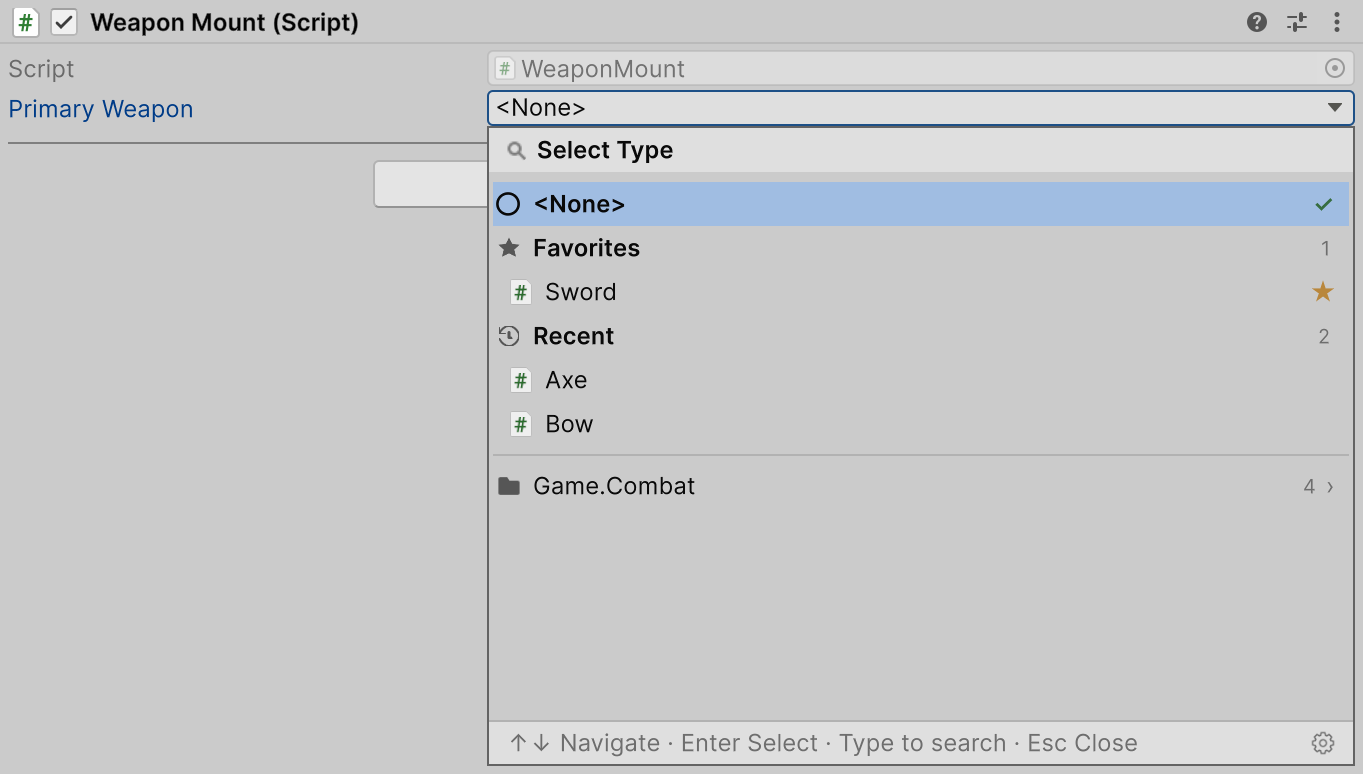
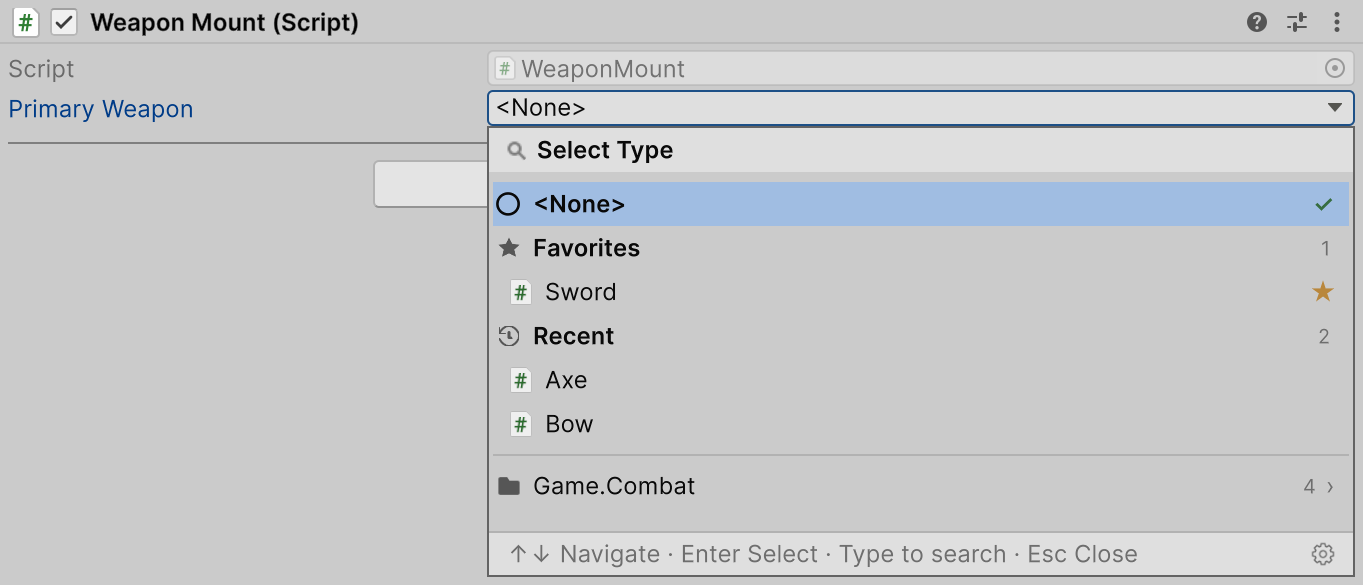
docs: review the TypeSelector page and show sample GIFs on shared pages (#301)
* docs(type-selector): apply the rules review and trim picker captures

- Show the attribute examples as a results table, drop the analyzer list and API contract details
- Cut the empty picker rows from six captures and their light twins, lossless
- docs-site: no analyzer lists; every Package sample shows the sample's demo GIF

* docs: show the sample demo GIF on pages that share a sample

* docs: drop analyzer IDs from the documentation pages

* docs: show the Package sample GIF without a caption

---------

diff --git a/Documentation/ru/03-type-selector.md b/Documentation/ru/03-type-selector.md
@@ -1,6 +1,6 @@
 # TypeSelector
 
-Атрибут для поля с типом: инспектор показывает список с поиском, где остаются только подходящие классы.
+Окно выбора типа, которое вы настраиваете под каждое поле.
 
 ## Быстрый старт
 
@@ -42,23 +42,12 @@ public sealed class Bow : RangedWeapon, ITwoHanded { }
 
 Типы в атрибуте сужают список: остаются только классы, совместимые со всеми сразу.
 
-```csharp
-// Weapon, MeleeWeapon, RangedWeapon, Sword, Axe, Bow
-[TypeSelector(typeof(Weapon))]
-[SerializeField] private string _anyWeapon;
-
-// Axe, Bow
-[TypeSelector(typeof(Weapon), typeof(ITwoHanded))]
-[SerializeField] private string _twoHanded;
-
-// Пустой список, анализатор AFT0009
-[TypeSelector(typeof(Sword), typeof(Axe))]
-[SerializeField] private string _nothing;
-
-// Sword, Axe: через общий базовый класс
-[TypeSelector(typeof(MeleeWeapon), Allow = TypeAllow.None)]
-[SerializeField] private string _swordOrAxe;
-```
+| Аргументы <code lang="csharp">[TypeSelector]</code> на поле <code lang="csharp">string</code> | В списке |
+|---|---|
+| <code lang="csharp">typeof(Weapon)</code> | <code lang="class-name">Weapon</code>, <code lang="class-name">MeleeWeapon</code>, <code lang="class-name">RangedWeapon</code>, <code lang="class-name">Sword</code>, <code lang="class-name">Axe</code>, <code lang="class-name">Bow</code> |
+| <code lang="csharp">typeof(Weapon), typeof(ITwoHanded)</code> | <code lang="class-name">Axe</code>, <code lang="class-name">Bow</code> |
+| <code lang="csharp">typeof(Sword), typeof(Axe)</code> | Пусто |
+| <code lang="csharp">typeof(MeleeWeapon), Allow = TypeAllow.None</code> | <code lang="class-name">Sword</code>, <code lang="class-name">Axe</code> |
 
 <code lang="class-name">T</code> обёртки и тип поля <code lang="csharp">[SerializeReference]</code> работают как ещё один тип в атрибуте:
 
@@ -72,10 +61,8 @@ public sealed class Bow : RangedWeapon, ITwoHanded { }
 [SerializeReference] private Weapon _twoHandedWeapon;
 ```
 
-На массиве или списке ограничение применяется к каждому элементу.
-
 > [!NOTE]
-> В инспекторе runtime-объекта селектор не предлагает типы из editor-only сборок (`UnityEditor`, asmdef только для Editor и папки `Editor`): в билде плеера они не найдутся. Правило определяется классом объекта, поэтому поле runtime-объекта под <code lang="csharp">#if UNITY_EDITOR</code> их тоже не предлагает.
+> В инспекторе runtime-объекта селектор не предлагает типы из editor-only сборок (`UnityEditor`, asmdef только для Editor и папки `Editor`): в билде плеера они не найдутся.
 
 ## Свойства
 
@@ -112,26 +99,19 @@ public sealed class Bow : RangedWeapon, ITwoHanded { }
 
 ![Выбор MeleeWeapon в Weapon Class оставляет в Weapon Name только Axe и Sword](../Images/type-selector-member-constraint.gif)
 
-| Источник ограничения | Что ограничивает |
+| Источник ограничения | Базовый тип |
 |---|---|
-| <code lang="class-name">System.Type</code> | Один тип |
-| <code lang="csharp">string</code> | Имя типа, разрешаемое через <code lang="csharp">Type.GetType()</code> |
-| <code lang="class-name">SerializableType</code> / <code lang="class-name">SerializableMonoScript</code> | Разрешённое значение <code lang="csharp">.Type</code> |
-| Массив этих значений | Несколько ограничений одновременно; <code lang="class-name">List&lt;T&gt;</code> не поддерживается |
+| <code lang="class-name">System.Type</code> | Значение поля |
+| <code lang="csharp">string</code> | Тип по имени через <code lang="csharp">Type.GetType()</code> |
+| <code lang="class-name">SerializableType</code> / <code lang="class-name">SerializableMonoScript</code> | Значение <code lang="csharp">.Type</code> |
+| Массив этих значений | Каждый элемент; <code lang="class-name">List&lt;T&gt;</code> не поддерживается |
 
-- Строка в атрибуте сначала ищется среди нестатических полей и читаемых свойств класса, где объявлено поле, включая унаследованные, затем — как имя типа.
 - У поля внутри <code lang="csharp">[Serializable]</code>-класса или элемента списка источник читается из того же экземпляра.
 - Пока источник пуст или не разрешился, ограничения от него нет: строковый **Weapon Name** предложит все конкретные типы. У обёртки остаётся её собственный <code lang="class-name">T</code>.
 
 ## Ошибки в строковых аргументах
 
-Ошибки в строках находят анализаторы:
-
-- `AFT0006` — строка из одного слова, но такого члена у класса нет;
-- `AFT0007` — член не может задать базовые типы;
-- `AFT0008` — строка не похожа на имя типа.
-
-Если имя типа записано верно, но такой тип не загружен, предупреждение показывает инспектор:
+Если имя типа записано верно, но такой тип не загружен, инспектор показывает предупреждение:
 
 ```csharp
 [TypeSelector("Spear, Assembly-CSharp")]
@@ -211,13 +191,15 @@ button.clicked += () => TypeSelectorWindow.Show(
     onSelected: aqn => selectedTypeName = aqn);
 ```
 
-Обработчик получает assembly-qualified name или <code lang="csharp">null</code> при выборе `<None>`; закрытие окна без выбора его не вызывает.
+Обработчик получает assembly-qualified name или <code lang="csharp">null</code> при выборе `<None>`.
 
-- <code lang="csharp">currentAqn</code> отмечает свой тип при открытии, а <code lang="csharp">""</code> — `<None>`; <code lang="csharp">null</code> или имя, которого нет в списке, не отмечают ничего, поэтому Enter сразу после открытия не сотрёт сохранённое имя.
-- <code lang="csharp">TypeSelectorFilter.Allow</code> по умолчанию <code lang="csharp">TypeAllow.None</code>, в отличие от <code lang="csharp">[TypeSelector]</code>: окно выше предлагает только конкретное оружие.
+> [!NOTE]
+> У <code lang="class-name">TypeSelectorFilter</code> <code lang="csharp">Allow</code> по умолчанию <code lang="csharp">TypeAllow.None</code>, а у <code lang="csharp">[TypeSelector]</code> — <code lang="csharp">TypeAllow.All</code>: окно выше предлагает только конкретное оружие.
 
 Свойства фильтра и параметры окна — в справочнике API: [TypeSelectorFilter](https://vpdpersonal.github.io/Aspid.FastTools/ru/api/Aspid.FastTools.Types.Editors.TypeSelectorFilter), [TypeSelectorWindow](https://vpdpersonal.github.io/Aspid.FastTools/ru/api/Aspid.FastTools.Types.Editors.TypeSelectorWindow).
 
 ## Пример в пакете
 
 Зависимый список, имена из <code lang="csharp">[TypeSelectorDisplay]</code> и обязательное поле показаны в примере [Types](../../Samples~/Types/Documentation/README.ru.md), а окно выбора из редакторского кода — в [EditorTools](../../Samples~/EditorTools/Documentation/README.ru.md).
+
+![Волна обычных и элитных врагов в сцене Types](../../Samples~/Types/Documentation/Images/demo.gif)

diff --git a/Documentation/03-type-selector.md b/Documentation/03-type-selector.md
@@ -1,6 +1,6 @@
 # TypeSelector
 
-An attribute for a type field: the Inspector shows a searchable list with only the classes that fit.
+A type picker you tailor to every field.
 
 ## Quick start
 
@@ -42,23 +42,12 @@ public sealed class Bow : RangedWeapon, ITwoHanded { }
 
 The types in the attribute narrow the list: only classes compatible with all of them stay.
 
-```csharp
-// Weapon, MeleeWeapon, RangedWeapon, Sword, Axe, Bow
-[TypeSelector(typeof(Weapon))]
-[SerializeField] private string _anyWeapon;
-
-// Axe, Bow
-[TypeSelector(typeof(Weapon), typeof(ITwoHanded))]
-[SerializeField] private string _twoHanded;
-
-// Empty list, analyzer AFT0009
-[TypeSelector(typeof(Sword), typeof(Axe))]
-[SerializeField] private string _nothing;
-
-// Sword, Axe: through their common base class
-[TypeSelector(typeof(MeleeWeapon), Allow = TypeAllow.None)]
-[SerializeField] private string _swordOrAxe;
-```
+| <code lang="csharp">[TypeSelector]</code> arguments on a <code lang="csharp">string</code> field | Offered |
+|---|---|
+| <code lang="csharp">typeof(Weapon)</code> | <code lang="class-name">Weapon</code>, <code lang="class-name">MeleeWeapon</code>, <code lang="class-name">RangedWeapon</code>, <code lang="class-name">Sword</code>, <code lang="class-name">Axe</code>, <code lang="class-name">Bow</code> |
+| <code lang="csharp">typeof(Weapon), typeof(ITwoHanded)</code> | <code lang="class-name">Axe</code>, <code lang="class-name">Bow</code> |
+| <code lang="csharp">typeof(Sword), typeof(Axe)</code> | Nothing |
+| <code lang="csharp">typeof(MeleeWeapon), Allow = TypeAllow.None</code> | <code lang="class-name">Sword</code>, <code lang="class-name">Axe</code> |
 
 A wrapper's <code lang="class-name">T</code> and a <code lang="csharp">[SerializeReference]</code> field's type count as one more type in the attribute:
 
@@ -72,10 +61,8 @@ A wrapper's <code lang="class-name">T</code> and a <code lang="csharp">[Serializ
 [SerializeReference] private Weapon _twoHandedWeapon;
 ```
 
-On an array or list, the constraint applies to each element.
-
 > [!NOTE]
-> In the Inspector of a runtime object, the picker leaves out types from editor-only assemblies (`UnityEditor`, Editor-only asmdefs and `Editor` folders): a player build cannot resolve them. The rule follows the object's class, so a runtime object's field declared under <code lang="csharp">#if UNITY_EDITOR</code> leaves them out too.
+> In the Inspector of a runtime object, the picker leaves out types from editor-only assemblies (`UnityEditor`, Editor-only asmdefs and `Editor` folders): a player build cannot resolve them.
 
 ## Properties
 
@@ -112,24 +99,17 @@ Choose <code lang="class-name">MeleeWeapon</code> in **Weapon Class**, and **Wea
 
 ![Choosing MeleeWeapon in Weapon Class leaves only Axe and Sword in Weapon Name](Images/type-selector-member-constraint.gif)
 
-| Constraint source | Constrains to |
+| Constraint source | Base type |
 |---|---|
-| <code lang="class-name">System.Type</code> | One type |
-| <code lang="csharp">string</code> | A type name resolved through <code lang="csharp">Type.GetType()</code> |
-| <code lang="class-name">SerializableType</code> / <code lang="class-name">SerializableMonoScript</code> | The resolved <code lang="csharp">.Type</code> value |
-| An array of these values | Multiple simultaneous constraints; <code lang="class-name">List&lt;T&gt;</code> is not supported |
+| <code lang="class-name">System.Type</code> | The member's value |
+| <code lang="csharp">string</code> | The type named, through <code lang="csharp">Type.GetType()</code> |
+| <code lang="class-name">SerializableType</code> / <code lang="class-name">SerializableMonoScript</code> | The <code lang="csharp">.Type</code> value |
+| An array of these values | Each element; <code lang="class-name">List&lt;T&gt;</code> is not supported |
 
-- The attribute's string is first looked up among the instance fields and readable properties of the class that declares the field, inherited ones included, then as a type name.
 - For a field inside a <code lang="csharp">[Serializable]</code> class or a list element, the source is read from that same instance.
 - While the source is empty or unresolved it adds no constraint: the string **Weapon Name** then offers every concrete type. A wrapper keeps its own <code lang="class-name">T</code>.
 
 ## Errors in string arguments
-
-Analyzers catch mistakes in the strings:
-
-- `AFT0006` — a one-word string that names no member of the class;
-- `AFT0007` — the member cannot supply base types;
-- `AFT0008` — the string is not a valid type name.
 
 If a well-formed type name refers to a type that is not loaded, the Inspector shows a warning:
 
@@ -211,13 +191,15 @@ button.clicked += () => TypeSelectorWindow.Show(
     onSelected: aqn => selectedTypeName = aqn);
 ```
 
-The callback receives an assembly-qualified name, or <code lang="csharp">null</code> for `<None>`; dismissing the window without a choice does not invoke it.
+The callback receives an assembly-qualified name, or <code lang="csharp">null</code> for `<None>`.
 
-- <code lang="csharp">currentAqn</code> marks its type on opening and <code lang="csharp">""</code> marks `<None>`; <code lang="csharp">null</code> or a name missing from the list marks nothing, so Enter right after opening cannot erase the stored name.
-- <code lang="csharp">TypeSelectorFilter.Allow</code> defaults to <code lang="csharp">TypeAllow.None</code>, unlike <code lang="csharp">[TypeSelector]</code>: the window above offers only concrete weapons.
+> [!NOTE]
+> <code lang="class-name">TypeSelectorFilter</code> defaults <code lang="csharp">Allow</code> to <code lang="csharp">TypeAllow.None</code>, while <code lang="csharp">[TypeSelector]</code> defaults to <code lang="csharp">TypeAllow.All</code>: the window above offers only concrete weapons.
 
 For filter properties and window parameters, see the API reference: [TypeSelectorFilter](https://vpdpersonal.github.io/Aspid.FastTools/api/Aspid.FastTools.Types.Editors.TypeSelectorFilter), [TypeSelectorWindow](https://vpdpersonal.github.io/Aspid.FastTools/api/Aspid.FastTools.Types.Editors.TypeSelectorWindow).
 
 ## Package sample
 
 The [Types](../Samples~/Types/Documentation/README.md) sample shows a dependent picker, <code lang="csharp">[TypeSelectorDisplay]</code> names and a required field; [EditorTools](../Samples~/EditorTools/Documentation/README.md) opens the picker from editor code.
+
+![A wave of regular and elite enemies in the Types scene](../Samples~/Types/Documentation/Images/demo.gif)

diff --git a/Documentation/ru/09-profiler-markers.md b/Documentation/ru/09-profiler-markers.md
@@ -68,8 +68,8 @@ public void Step()
 
 ## Ограничения
 
-- Вызывайте <code lang="csharp">this.Marker()</code> внутри собственного типа. Вызовы на объекте другого типа, в статическом классе или вложенном <code lang="csharp">private</code>/<code lang="csharp">protected</code> типе отмечаются `AFT0010`: замер может отсутствовать или попасть в чужой маркер.
-- Используйте <code lang="csharp">using</code>. Отдельный вызов <code lang="csharp">this.Marker();</code> начинает замер и не завершает его — `AFT0011`.
+- Вызывайте <code lang="csharp">this.Marker()</code> внутри собственного типа. Вызовы на объекте другого типа, в статическом классе или вложенном <code lang="csharp">private</code>/<code lang="csharp">protected</code> типе ненадёжны: замер может отсутствовать или попасть в чужой маркер.
+- Используйте <code lang="csharp">using</code>. Отдельный вызов <code lang="csharp">this.Marker();</code> начинает замер и не завершает его.
 
 > [!WARNING]
 > Вызовы внутри одного типа с одинаковым номером строки делят один маркер, даже если находятся в разных файлах <code lang="csharp">partial</code>. Давайте каждой точке замера свой номер строки, иначе замеры объединятся под именем первого вызова.

diff --git a/Documentation/09-profiler-markers.md b/Documentation/09-profiler-markers.md
@@ -68,8 +68,8 @@ Markers are created once. After initialization, repeated measurements allocate n
 
 ## Limitations
 
-- Call <code lang="csharp">this.Marker()</code> inside its own type. Calls on another type’s instance, in a static class or in a <code lang="csharp">private</code>/<code lang="csharp">protected</code> nested type are reported as `AFT0010`: the measurement may be missing or use another call’s marker.
-- Use <code lang="csharp">using</code>. A standalone <code lang="csharp">this.Marker();</code> starts a measurement without ending it — `AFT0011`.
+- Call <code lang="csharp">this.Marker()</code> inside its own type. Calls on another type’s instance, in a static class or in a <code lang="csharp">private</code>/<code lang="csharp">protected</code> nested type are unreliable: the measurement may be missing or use another call’s marker.
+- Use <code lang="csharp">using</code>. A standalone <code lang="csharp">this.Marker();</code> starts a measurement without ending it.
 
 > [!WARNING]
 > Calls within one type that share a line number share a marker, even across different <code lang="csharp">partial</code> files. Give each call site a distinct line number, or measurements will be combined under the first call’s name.

diff --git a/Documentation/ru/11-serialized-property-extensions.md b/Documentation/ru/11-serialized-property-extensions.md
@@ -112,3 +112,5 @@ EditorApplication.delayCall += () =>
 ## Пример в пакете
 
 В [EditorTools](../../Samples~/EditorTools/Documentation/README.ru.md) кнопка **Halve cooldown, +5 MP** записывает два свойства через <code lang="function">SetFloat</code> и <code lang="function">SetIntAndApply</code>.
+
+![Кнопка Halve cooldown, +5 MP меняет стоимость и перезарядку, а Undo возвращает прежние значения.](../../Samples~/EditorTools/Documentation/Images/demo.gif)

diff --git a/Documentation/11-serialized-property-extensions.md b/Documentation/11-serialized-property-extensions.md
@@ -112,3 +112,5 @@ EditorApplication.delayCall += () =>
 ## Package sample
 
 In [EditorTools](../Samples~/EditorTools/Documentation/README.md), the **Halve cooldown, +5 MP** button writes two properties with <code lang="function">SetFloat</code> and <code lang="function">SetIntAndApply</code>.
+
+![The Halve cooldown, +5 MP button changes the cost and the cooldown, and Undo restores them.](../Samples~/EditorTools/Documentation/Images/demo.gif)

diff --git a/Documentation/12-editor-helpers.md b/Documentation/12-editor-helpers.md
@@ -33,3 +33,5 @@ Both methods return <code lang="csharp">string.Empty</code> for a <code lang="cs
 ## Package sample
 
 In [EditorTools](../Samples~/EditorTools/Documentation/README.md), <code lang="csharp">GetDisplayName()</code> titles the custom inspector of the <code lang="class-name">AbilityConfig</code> asset.
+
+![The Ability Catalog window from the EditorTools sample](../Samples~/EditorTools/Documentation/Images/demo.gif)

diff --git a/Documentation/ru/12-editor-helpers.md b/Documentation/ru/12-editor-helpers.md
@@ -33,3 +33,5 @@
 ## Пример в пакете
 
 В [EditorTools](../../Samples~/EditorTools/Documentation/README.ru.md) <code lang="csharp">GetDisplayName()</code> задаёт заголовок кастомного инспектора ассета <code lang="class-name">AbilityConfig</code>.
+
+![Окно Ability Catalog из примера EditorTools](../../Samples~/EditorTools/Documentation/Images/demo.gif)

diff --git a/Documentation/ru/05-component-type-selector.md b/Documentation/ru/05-component-type-selector.md
@@ -42,3 +42,5 @@ public abstract class EnemyBase : MonoBehaviour
 ## Пример в пакете
 
 Переключение типа компонента показано в примере [Types](../../Samples~/Types/Documentation/README.ru.md).
+
+![Волна обычных и элитных врагов в сцене Types](../../Samples~/Types/Documentation/Images/demo.gif)

diff --git a/Documentation/05-component-type-selector.md b/Documentation/05-component-type-selector.md
@@ -42,3 +42,5 @@ For class display settings, search and favorites, see [TypeSelector](03-type-sel
 ## Package sample
 
 The [Types](../Samples~/Types/Documentation/README.md) sample shows component type switching.
+
+![A wave of regular and elite enemies in the Types scene](../Samples~/Types/Documentation/Images/demo.gif)
